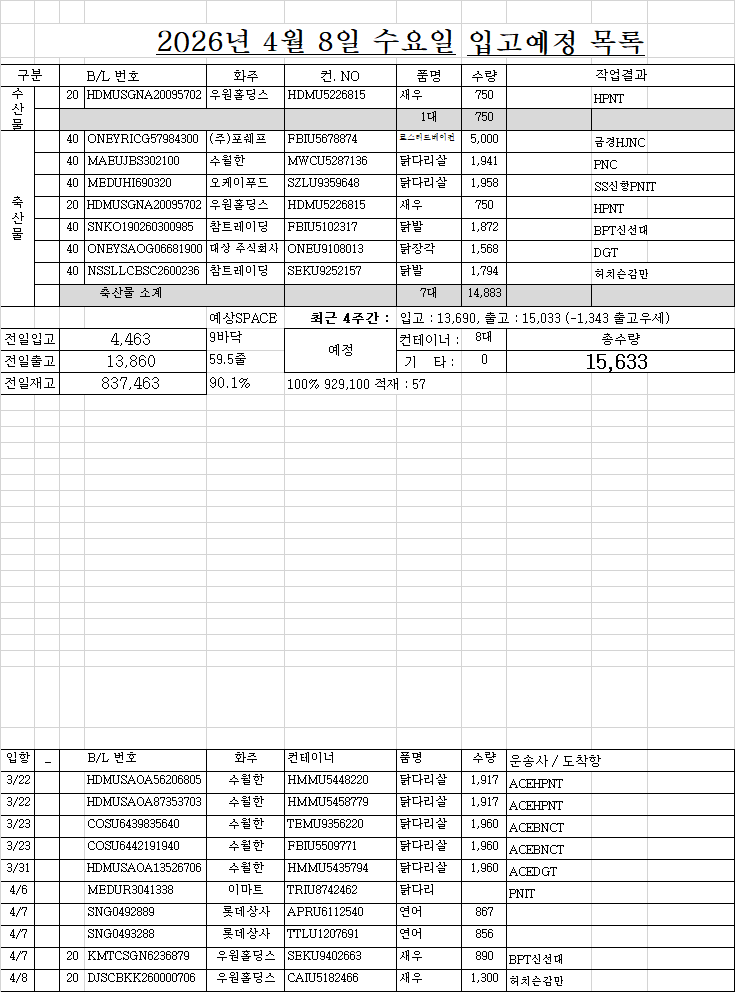
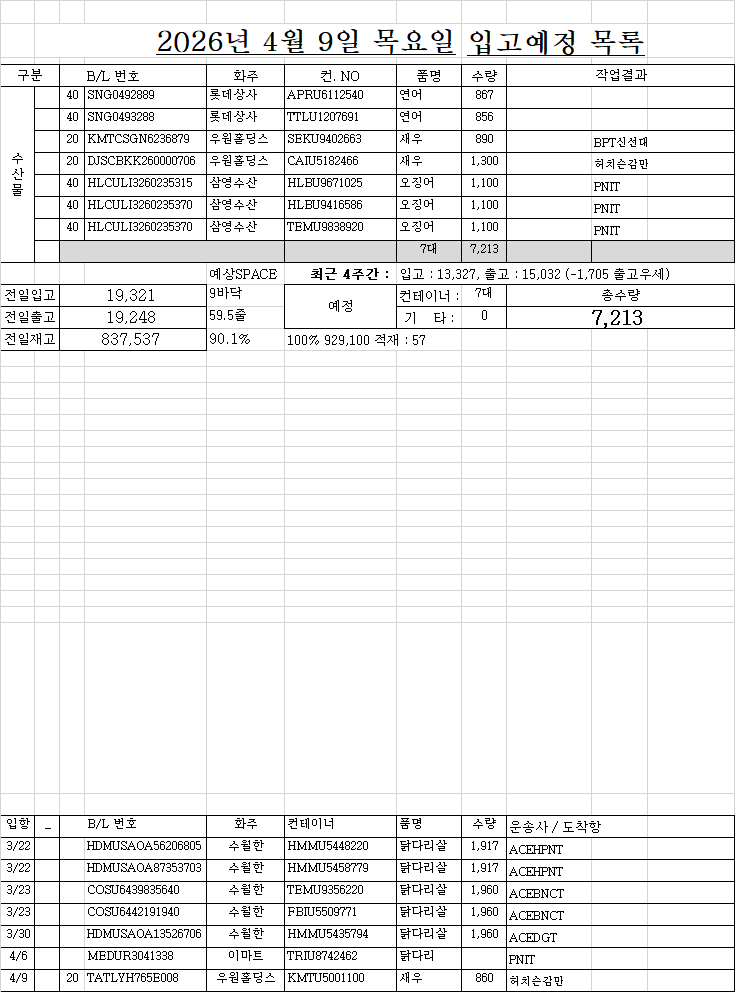
DFDSF

diff --git a/list.html b/list.html
@@ -160,46 +160,38 @@
 </div>
 <!-- ★★★★★★ 따로 빼 놔야한다. 복붙하면 첫칸 비어도 되는데, 여기서는 첫칸비우면 당겨진다. -->
 <!-- ★ 엑셀범위를 브라우저 textarea에 붙여넣으면 첫셀 비어도 제대로 되는데... HTML에 붙여놓은 자료는 처음셀이 비어있으면 당겨짐 -->
-<div class="d-none" id="원본text_리스트1부터w요약열까지">작성	면허	B/LNO.	화주	컨테이너NO.	품명	수량	반입NO.	입항일	구분	도착일	도착시간	구분	운도VBA	04/07 화 17:01	화찰BL	화찰 선명	화물관리번호	화찰수량	화찰중량	화찰입항	리스트시트기준열	
-1	○	ONEYRICG57984300	(주)포쉐프	FBIU5678874	로스티드베이컨	5,000 		4/3	2	4/6	13:52		금경HJNC	(주)제이트랜스, CY : 한진부산컨테이너터미널(주), 컨진행 : 반출완료, 선사 : 오션네트워크익스프레스코리아(주)	ONEYRICG57984300	HYUNDAI SATURN	26ONEY0413I-5025-	5,000 	15,785.18 	2026.04.03	04/07 화 17:01	
-1	○	MAEUJBS302100	수월한	MWCU5287136	닭다리살	1,941 		4/4	2				PNC	(주)한타특수운송, CY : 부산신항만(주)자유무역지역, 컨진행 : 보세운송 신고 수리, 선사 : 한국머스크(주)	MAEUJBS302100	MAERSK NACKA	26MAEU0210I-1104-	1,941 	24,369.94 	2026.04.04	조회정보	
-1	○	MEDUHI690320	오케이푸드	SZLU9359648	닭다리살	1,958 		4/4	2	4/6	15:36		SS신항PNIT	(주)에스에스물류, CY : 부산신항국제터미널(주), 컨진행 : 반출완료, 선사 : 하파그로이드코리아(주)	MEDUHI690320	RIO DE JANEIRO EXPRESS	26HLCU9318I-7305-	1,958 	24,486.84 	2026.04.04	적재	57
-1	○	HDMUSGNA20095702	우원홀딩스	HDMU5226815	새우	750 		4/5	1			20 	HPNT	(주)에스에스물류, CY : 에이치엠엠피에스에이신항만(주), 컨진행 : 보세운송 신고 수리, 선사 : 양밍한국(주)	HDMUSGNA20095702	YM WELLBEING	26YMJA0055I-0038-	750 	6,000.00 	2026.04.05	4,617 	3줄
-1	○	SNKO190260300985	참트레이딩	FBIU5102317	닭발	1,872 		4/5	2				BPT신선대	(주)나모티엘에스, CY : 신선대감만터미널(주) 신선대CY, 컨진행 : 반입완료, 선사 : 장금상선(주)	SNKO190260300985	SAWASDEE CAPELLA	26SNKO1270I-6083-	1,872 	23,587.20 	2026.04.05	6,156 	4줄
-1		ONEYSAOG06681900	대상 주식회사	ONEU9108013	닭장각	1,568 	DGT	4/6	2				DGT	면허?, CY : 동원글로벌터미널부산(주), 컨진행 : 하선신고 수리완료, 선사 : 에이치엠엠(주)	ONEYSAOG06681900	HMM PRIVILEGE	26HDMUA192I-5128-	1,568 	24,304.00 	2026.04.06	7,695 	5줄
-1		NSSLLCBSC2600236	참트레이딩	SEKU9252157	닭발	1,794 		4/6	2				허치슨감만	면허?, CY : 신감만 한국허치슨(주) 컨테이너 보세창고, 컨진행 : 입항적재화물목록 운항정보 정정, 선사 : 팬오션(주)	NSSLLCBSC2600236	POS LAEMCHABANG	26POBULM35I-3005-	1,794 	22,604.40 	2026.04.06	9,234 	6줄
-1		KMTCBKK3832969	뉴아시아	SEGU9716422	닭날개	1,950 	허치슨감만	4/7	2				허치슨감만	면허?, CY : 신감만 한국허치슨(주) 컨테이너 보세창고, 컨진행 : 입항적재화물목록 심사완료, 선사 : 남성해운주식회사	KMTCBKK3832969	STARSHIP AQUILA	26NSSLC121I-0006-	1,950 	24,375.00 	2026.04.07	구분	대수
-		HDMUSAOA56206805	수월한	HMMU5448220	닭다리살	1,917 	HPNT	3/22	2				ACEHPNT	면허?, CY : 에이치엠엠피에스에이신항만(주), 컨진행 : 반입완료, 선사 : 에이치엠엠(주)							출고입고	4주간
-		HDMUSAOA87353703	수월한	HMMU5458779	닭다리살	1,917 	HPNT	3/22	2				ACEHPNT	면허?, CY : 에이치엠엠피에스에이신항만(주), 컨진행 : 반입완료, 선사 : 에이치엠엠(주)	HDMUSAOA87353703	HMM CLOVER	26HDMUA133I-0061-	1,917 	23,962.50 	2026.03.22	1일 7/5	9바닥줄
-		COSU6439835640	수월한	TEMU9356220	닭다리살	1,960 	BNCT	3/23	2				ACEBNCT	면허?, CY : (주)비엔씨티(CY), 컨진행 : 반입완료, 선사 : 코스코쉬핑라인스 한국 주식회사	COSU6439835640	COSCO PRIDE	26COSU0023I-3055-	1,960 	24,500.00 	2026.03.23	14,953 	9.7
-		COSU6442191940	수월한	FBIU5509771	닭다리살	1,960 	BNCT	3/23	2				ACEBNCT	면허?, CY : (주)비엔씨티(CY), 컨진행 : 반입완료, 선사 : 코스코쉬핑라인스 한국 주식회사	COSU6442191940	COSCO PRIDE	26COSU0023I-3021-	1,960 	24,500.00 	2026.03.23	14,319 	9.3
-		HDMUSAOA13526706	수월한	HMMU5435794	닭다리살	1,960 	ACE.DGT	3/31	2				ACEDGT	면허?, CY : 동원글로벌터미널부산(주), 컨진행 : 입항보고 수리, 선사 : 오션네트워크익스프레스코리아(주)	HDMUSAOA13526706	ONE FORTUNE(MS2W)	26ONEY0399I-7132-	1,960 	24,500.00 	2026.03.30	내국제외	
-		MEDUR3041338	이마트	TRIU8742462	닭다리		PNIT	4/6	2				PNIT			MSC SAVONA					구분	대수
-		SNG0492889	롯데상사	APRU6112540	연어	867 		4/7	1												수산	22 
-		SNG0493288	롯데상사	TTLU1207691	연어	856 		4/7	1												축산	42 
-		KMTCSGN6236879	우원홀딩스	SEKU9402663	새우	890 		4/7	1			20 	BPT신선대	면허?, CY : 신선대감만터미널(주) 신선대CY, 컨진행 : 입항적재화물목록 제출, 선사 : 장금상선(주)	KMTCSGN6236879	SAWASDEE VEGA	26SNKO1318I-0014-	890 	6,497.00 	2026.04.07	합계	64 
-		DJSCBKK260000706	우원홀딩스	CAIU5182466	새우	1,300 		4/8	1			20 	허치슨감만			KMTC BANGKOK						
-		TATLYH765E008	우원홀딩스	KMTU5001100	새우	860 		4/9	1			20 	허치슨감만			LING YUN HE(AK4)					화주	대수
-		HLCULI3260235315	삼영수산	HLBU9671025	오징어	1,100 	PNIT	4/10	1				PNIT			RDO ACE					수월한	14
-		HLCULI3260235370	삼영수산	HLBU9416586	오징어	1,100 	PNIT	4/10	1				PNIT			RDO ACE					삼영수산	12
-		HLCULI3260235370	삼영수산	TEMU9838920	오징어	1,100 	PNIT	4/10	1				PNIT			RDO ACE					이마트	8
-		SNKO190260303502	우원홀딩스	SEGU9996107	오징어	700 		4/10	2			10 	허치슨감만			KMTC TAIPEIS					우원홀딩스	5
-		AOLIMA69377100	삼영수산	TEMU9683520	오징어	1,150 	?????(HMM).PNIT	4/11	1	HMM			(HMM)PNIT			ONE SPLENDOUR					동원홈푸드	5
-		LMM0575863	삼영수산	CGMU9319645	오징어	1,100 	BNCT	4/11	1				BNCT			CMA CGM HELIUM					대성무역	4
-		LMM0575863	삼영수산	TEMU9350746	오징어	1,100 	BNCT	4/11	1				BNCT			CMA CGM HELIUM					참트레이딩	3
-		MAEUJBS306118	수월한	MMAU1200271	닭다리살	1,849 	PNC	4/11	2				PNC			GRASMERE MAERSK					씨케이글로벌	3
-		MAEUJBS306548	수월한	MMAU1120807	닭다리살	1,729 	PNC	4/11	2				PNC			GRASMERE MAERSK					아스트로스	3
-		MAEUJBS303296	이마트	MNBU3283839	닭다리살	1,958 		4/11	2				PNC			GRASMERE MAERSK					롯데상사	2
-		MAEUJBS303707	이마트	MNBU4434729	닭다리살	1,958 		4/11	2				PNC			GRASMERE MAERSK					뉴아시아	1
-		MAEUJBS304411	이마트	MMAU1196269	SR조각정육(하프컷)			4/11	2				PNC			GRASMERE MAERSK					세현	1
-		MAEUJBS306283	이마트	MNBU0301374	SR조각정육(하프컷)			4/11	2				PNC			GRASMERE MAERSK					(주)포쉐프	1
-		SSZ1742400	아스트로스	TTNU8775902	닭발	1,500 	BNCT	4/13	2				BNCT			CMA CGM BALI					오케이푸드	1
-		MEDURU422743	삼영수산	MSGU9091131	오징어	1,065 		4/14	1												대상 주식회사	1
-		MEDURU422743	삼영수산	TEMU9008883	오징어	1,065 		4/14	1													
-		MEDURU427148	세현	TEMU9314420	오징어	1,175 	BCT	4/14	1				BCT			MSC UBERTY VIII						
-		ONEYSAOG08089600	대성무역	BMOU9864314	닭다리살	1,960 		4/16	2				HPNT			HMM VICTORY						
-		LMM0576989	삼영수산	SZLU5078410	오징어	1,100 		4/17	1				BNCT			APL CHARLESTON						
-		LMM0576989	삼영수산	SZLU5081918	오징어	1,100 		4/17	1				BNCT			APL CHARLESTON						
+<div class="d-none" id="원본text_리스트1부터w요약열까지">작성	면허	B/LNO.	화주	컨테이너NO.	품명	수량	반입NO.	입항일	구분	도착일	도착시간	구분	운도VBA	04/08 수 16:31	화찰BL	화찰 선명	화물관리번호	화찰수량	화찰중량	화찰입항	리스트시트기준열	
+1	○	SNG0492889	롯데상사	APRU6112540	연어	867 		4/7	1						SNG0492889	APL SALALAH	26CMAL0142I-2063-	867 	24,747.80 	2026.04.07	04/08 수 16:31	
+1	○	SNG0493288	롯데상사	TTLU1207691	연어	856 		4/7	1						SNG0493288	APL SALALAH	26CMAL0142I-2064-	856 	24,750.00 	2026.04.07	조회정보	
+1	○	KMTCSGN6236879	우원홀딩스	SEKU9402663	새우	890 		4/7	1			20	BPT신선대	면허?, CY : 신선대감만터미널(주) 신선대CY, 컨진행 : 입항적재화물목록 제출, 선사 : 장금상선(주)	KMTCSGN6236879	SAWASDEE VEGA	26SNKO1318I-0014-	890 	6,497.00 	2026.04.07	적재	57
+1	○	DJSCBKK260000706	우원홀딩스	CAIU5182466	새우	1,300 		4/8	1			20	허치슨감만	(주)에스에스물류, CY : 신감만 한국허치슨(주) 컨테이너 보세창고, 컨진행 : 보세운송 신고 수리, 선사 : 고려해운(주)	DJSCBKK260000706	KMTC BANGKOK	26KMTC1157I-5007-	1,300 	5,200.00 	2026.04.08	4,617 	3줄
+1		HLCULI3260235315	삼영수산	HLBU9671025	오징어	1,100 	PNIT	4/9	1				PNIT	면허?, CY : 에이치엠엠피에스에이신항만(주), 컨진행 : 입항적재화물목록 심사완료, 선사 : 오션네트워크익스프레스코리아(주)	HLCULI3260235315	RDO ACE	26ONEY0465I-0010-	1,100 	24,410.00 	2026.04.09	6,156 	4줄
+1		HLCULI3260235370	삼영수산	HLBU9416586	오징어	1,100 	PNIT	4/9	1				PNIT	면허?, CY : 에이치엠엠피에스에이신항만(주), 컨진행 : 입항적재화물목록 심사완료, 선사 : 오션네트워크익스프레스코리아(주)	HLCULI3260235370	RDO ACE	26ONEY0465I-0011-	2,200 	48,190.00 	2026.04.09	7,695 	5줄
+1		HLCULI3260235370	삼영수산	TEMU9838920	오징어	1,100 	PNIT	4/9	1				PNIT	면허?, CY : 에이치엠엠피에스에이신항만(주), 컨진행 : 입항적재화물목록 심사완료, 선사 : 오션네트워크익스프레스코리아(주)	HLCULI3260235370	RDO ACE	26ONEY0465I-0011-	2,200 	48,190.00 	2026.04.09	9,234 	6줄
+		HDMUSAOA56206805	수월한	HMMU5448220	닭다리살	1,917 	HPNT	3/22	2				ACEHPNT	면허?, CY : 에이치엠엠피에스에이신항만(주), 컨진행 : 반입완료, 선사 : 에이치엠엠(주)	HDMUSAOA56206805	HMM CLOVER	26HDMUA133I-0060-	1,917 	23,962.50 	2026.03.22	구분	대수
+		HDMUSAOA87353703	수월한	HMMU5458779	닭다리살	1,917 	HPNT	3/22	2				ACEHPNT	면허?, CY : 에이치엠엠피에스에이신항만(주), 컨진행 : 반입완료, 선사 : 에이치엠엠(주)	HDMUSAOA87353703	HMM CLOVER	26HDMUA133I-0061-	1,917 	23,962.50 	2026.03.22	출고입고	4주간
+		COSU6439835640	수월한	TEMU9356220	닭다리살	1,960 	BNCT	3/23	2				ACEBNCT	면허?, CY : (주)비엔씨티(CY), 컨진행 : 반입완료, 선사 : 코스코쉬핑라인스 한국 주식회사	COSU6439835640	COSCO PRIDE	26COSU0023I-3055-	1,960 	24,500.00 	2026.03.23	1일 7/5	9바닥줄
+		COSU6442191940	수월한	FBIU5509771	닭다리살	1,960 	BNCT	3/23	2				ACEBNCT	면허?, CY : (주)비엔씨티(CY), 컨진행 : 반입완료, 선사 : 코스코쉬핑라인스 한국 주식회사	COSU6442191940	COSCO PRIDE	26COSU0023I-3021-	1,960 	24,500.00 	2026.03.23	15,032 	9.8
+		HDMUSAOA13526706	수월한	HMMU5435794	닭다리살	1,960 	ACE.DGT	3/30	2				ACEDGT	면허?, CY : 동원글로벌터미널부산(주), 컨진행 : 반입완료, 선사 : 오션네트워크익스프레스코리아(주)	HDMUSAOA13526706	ONE FORTUNE	26ONEY0399I-7132-	1,960 	24,500.00 	2026.03.30	13,327 	8.7
+		MEDUR3041338	이마트	TRIU8742462	닭다리		PNIT	4/6	2				PNIT			MSC SAVONA					내국제외	
+		TATLYH765E008	우원홀딩스	KMTU5001100	새우	860 		4/9	1			20	허치슨감만			LING YUN HE(AK4)					구분	대수
+		SNKO190260303502	우원홀딩스	SEGU9996107	오징어	700 		4/10	2			10	허치슨감만			KMTC TAIPEIS					수산	21 
+		AOLIMA69377100	삼영수산	TEMU9683520	오징어	1,150 	?????(HMM).PNIT	4/11	1	HMM			(HMM)PNIT			ONE SPLENDOUR					축산	36 
+		LMM0575863	삼영수산	CGMU9319645	오징어	1,100 	BNCT	4/11	1				BNCT			CMA CGM HELIUM					합계	57 
+		LMM0575863	삼영수산	TEMU9350746	오징어	1,100 	BNCT	4/11	1				BNCT			CMA CGM HELIUM						
+		MAEUJBS306118	수월한	MMAU1200271	닭다리살	1,849 	PNC	4/11	2				PNC			GRASMERE MAERSK					화주	대수
+		MAEUJBS306548	수월한	MMAU1120807	닭다리살	1,729 	PNC	4/11	2				PNC			GRASMERE MAERSK					수월한	13
+		MAEUJBS304411	이마트	MMAU1196269	SR조각정육(하프컷)			4/11	2				PNC			GRASMERE MAERSK					삼영수산	12
+		MAEUJBS306283	이마트	MNBU0301374	SR조각정육(하프컷)			4/11	2				PNC			GRASMERE MAERSK					이마트	8
+		MAEUJBS303296	이마트	MNBU3283839	닭다리살	1,958 		4/11	2				PNC			GRASMERE MAERSK					동원홈푸드	5
+		MAEUJBS303707	이마트	MNBU4434729	닭다리살	1,958 		4/11	2				PNC			GRASMERE MAERSK					대성무역	4
+		SSZ1742400	아스트로스	TTNU8775902	닭발	1,500 	BNCT	4/13	2				BNCT			CMA CGM BALI					우원홀딩스	4
+		MEDURU422743	삼영수산	MSGU9091131	오징어	1,065 		4/14	1												씨케이글로벌	3
+		MEDURU422743	삼영수산	TEMU9008883	오징어	1,065 		4/14	1												아스트로스	3
+		MEDURU427148	세현	TEMU9314420	오징어	1,175 	BCT	4/14	1				BCT			MSC UBERTY VIII					롯데상사	2
+		ONEYSAOG08089600	대성무역	BMOU9864314	닭다리살	1,960 		4/16	2				HPNT			HMM VICTORY					참트레이딩	1
+		LMM0576989	삼영수산	SZLU5078410	오징어	1,100 		4/17	1				BNCT			APL CHARLESTON					세현	1
+		LMM0576989	삼영수산	SZLU5081918	오징어	1,100 		4/17	1				BNCT			APL CHARLESTON					마이푸드	1
 		LMM0578990	삼영수산	TEMU9420669	오징어	1,100 		4/17	1				BNCT			APL CHARLESTON						
 		LMM0578990	삼영수산	CGMU9399722	오징어	1,100 		4/17	1				BNCT			APL CHARLESTON						
 		ACD878813	씨케이글로벌	CGMU5828731	홍합	2,063 		4/21	1													
@@ -218,12 +210,13 @@
 		MEDUR3128275	수월한	MEDU9346424	닭다리살	1,939 		5/10	2				확인안함			CAPE ARTEMISIO						
 		MEDUWE071701	수월한	HJMU6102738	닭발	1,566 			2							APE ARTEMISIO						
 		MEDUWE055639	이마트	MEDU9023566	닭다리살	1,958 		미정	2				확인안함			SANTA CATARINA EXPRESS						
-		OOCL2317300180	씨케이글로벌	FSCU5984155		1,382 	???		1							CMA CGM PRIDE						
-		SITRRIPU040355	씨케이글로벌	CAIU5186862	새우	1,550 	???		1			1900-01-20 00:00										
 		MEDUWE053329	동원홈푸드	GESU9495230	닭다리살	1,958 			2													
 		MEDUWE053345	동원홈푸드	MEDU9780981	닭다리살	1,958 			2													
 		MEDUWE054525	동원홈푸드	MEDU9912007	닭다리살	1,949 			2													
+		SNKO190260302211	마이푸드	FBIU5371871	닭다리살	1,940 			2													
 		MEDUFX960938	수월한	MEDU9109741	닭다리살	1,917 	???		2				천일정기화물PNIT			MSC BREMERHAVEN V						
+		SITRRIPU040355	씨케이글로벌	CAIU5186862	새우	1,550 	???		1													
+		OOCL2317300180	씨케이글로벌	FSCU5984155		1,382 	???		1							CMA CGM PRIDE						
 		MEDUHI679323	아스트로스	GESU9128810	닭다리살	1,876 			2													
 </div>
 <div class="d-none" id="원본text_입항관리도크부터도착항우측까지">도크	화주	컨테이너	작업순서	상세내용 참조		운송사	물품		06/05 목 16:15	B/L	도착항	상세내용
